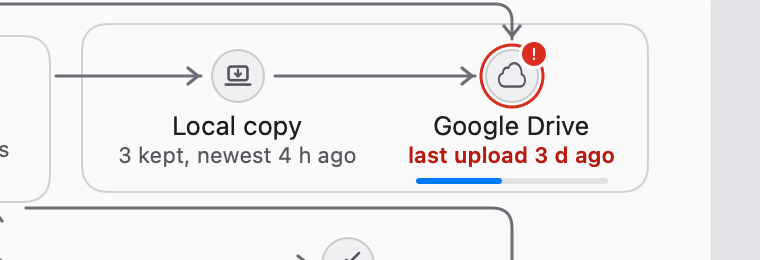
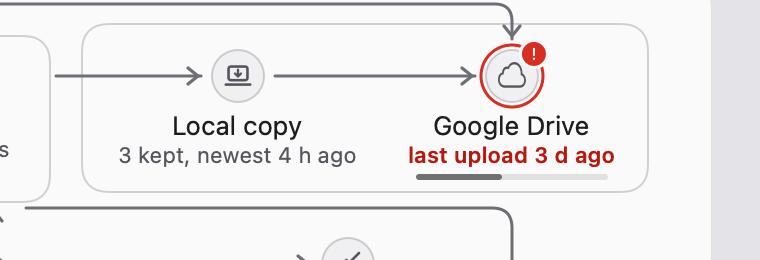
fix(brainbar): review 1 on the Drive upload state — bar placement, still bars, one stall name
Taste review round 1 on #1886 (2 blocking, 4 nits), all fixed:
- B1: the bar sits 3 pt under Drive's line box (y 93-96), 5.5 pt above
  the Kept-safe border, so it belongs to its words.
- B2: no dashed bar. A stall keeps its last confirmed amount in grey,
  a check fills the track in lighter grey, an unknown amount is the
  track alone; a Drive in error greys the amount. None of them moves.
- N1/N2: the Backups page names a stall like Drive's line, in one clock
  style that follows the 12/24-hour setting. "Stalled at" rather than
  "since": "Stalled since 12:58 PM" breaks the Kept-safe width rule.
- N3: "Newest verified copy is from <date>".
- N4: an upload can coexist with a Drive error (read() refuses only a
  recorded upload error), so the bar is grey whenever Drive is in error.

Changed region(s): [[0.5447, 0.6462, 0.8171, 0.7077]]

diff --git a/brain-bar/Sources/BrainBar/BrainBarBackupProgress.swift b/brain-bar/Sources/BrainBar/BrainBarBackupProgress.swift
@@ -23,12 +23,15 @@ struct BrainBarBackupProgress: Equatable, Sendable {
         guard local.uploadState == "in_progress" || (local.uploadState == "pending" && verifying) else { return nil }
         guard !local.uploaded || verifying else { return nil }
         let fresh = local.bytesConfirmedAt.map { (0...checkpointMaxAgeS).contains(now.timeIntervalSince($0)) } == true
+        let stalled = !verifying && local.bytesConfirmedAt.map { now.timeIntervalSince($0) > checkpointMaxAgeS } == true
+        // A stalled upload keeps the last confirmed amount (it reached N % at the time its line names); an undated or
+        // future-dated checkpoint carries no amount.
         return Self(phase: verifying ? .verification : .upload,
                     identity: "\(local.destination ?? ""):\(started.timeIntervalSince1970)",
-                    confirmed: verifying || !fresh ? nil : local.bytesConfirmed, total: verifying ? nil : local.bytesTotal,
+                    confirmed: verifying || !(fresh || stalled) ? nil : local.bytesConfirmed, total: verifying ? nil : local.bytesTotal,
                     lastGoodAt: backups.dbSnapshot.flatMap { $0.verified && $0.lastAt <= now ? $0.lastAt : nil },
                     checkpointAt: !verifying ? local.bytesConfirmedAt : nil, startedAt: started,
-                    isStalled: !verifying && local.bytesConfirmedAt.map { now.timeIntervalSince($0) > checkpointMaxAgeS } == true)
+                    isStalled: stalled)
     }
 
     var fraction: Double? {
@@ -40,45 +43,55 @@ struct BrainBarBackupProgress: Equatable, Sendable {
         if isStalled, let checkpointAt { return checkpointAt.formatted(date: .abbreviated, time: .shortened) }
         return percentage.map { "\($0) percent" } ?? BrainBarMenuPresenter.SurfaceSay.backupInProgress
     }
+    /// The Backups page's title; a stall says when bytes last moved, in the same words as Drive's line.
     var title: String {
-        if isStalled { return BrainBarMenuPresenter.SurfaceSay.notUploadingSince }
-        return phase == .upload ? BrainBarMenuPresenter.SurfaceSay.backupUploading : BrainBarMenuPresenter.SurfaceSay.backupVerifying
+        typealias Say = BrainBarMenuPresenter.SurfaceSay
+        if isStalled { return checkpointAt.map { Say.driveStalledAt(Self.clock($0)) } ?? Say.notUploadingSince }
+        return phase == .upload ? Say.backupUploading : Say.backupVerifying
     }
     /// Google Drive's status line in the Pipeline: what the upload is doing, in the station's own words. A fresh
-    /// checkpoint is under 20 minutes old by construction, so its time is left to the panel; once it is older the line
-    /// itself says since when nothing moved.
-    func stationLine(in timeZone: TimeZone = .autoupdatingCurrent) -> String {
+    /// checkpoint is under 20 minutes old by construction, so its time is left to the Backups page; once it is older the
+    /// line itself says when nothing moved after.
+    func stationLine(in timeZone: TimeZone = .autoupdatingCurrent, locale: Locale = .autoupdatingCurrent) -> String {
         typealias Say = BrainBarMenuPresenter.SurfaceSay
-        if isStalled, let checkpointAt { return Say.driveStalledSince(Self.clock(checkpointAt, in: timeZone)) }
+        if isStalled, let checkpointAt { return Say.driveStalledAt(Self.clock(checkpointAt, in: timeZone, locale: locale)) }
         if phase == .verification { return Say.backupVerifyingShort }
         return percentage.map(Say.driveUploadingPercent) ?? Say.backupUploadingShort
     }
 
-    /// "06:26": a clock time as the Pipeline's other lines write it.
-    static func clock(_ date: Date, in timeZone: TimeZone) -> String {
-        let f = DateFormatter()
-        f.locale = Locale(identifier: "en_US_POSIX")
-        f.timeZone = timeZone
-        f.dateFormat = "HH:mm"
-        return f.string(from: date)
+    /// The one clock style for both surfaces: the person's own 12- or 24-hour setting ("06:26", "6:26 AM").
+    static func clock(_ date: Date, in timeZone: TimeZone = .autoupdatingCurrent, locale: Locale = .autoupdatingCurrent) -> String {
+        date.formatted(Date.FormatStyle(date: .omitted, time: .shortened, locale: locale, timeZone: timeZone))
+    }
+
+    /// What the bar draws. Each state is still and distinct; none is dashed. A moving upload fills in the accent
+    /// colour; a stall (or a Drive in error) keeps its amount in grey; a check fills the whole track in a lighter grey;
+    /// an unknown amount is the track alone.
+    enum BarFill: Equatable, Sendable { case accent(Double), grey(Double), checking, unknown }
+    func barFill(muted: Bool = false) -> BarFill {
+        if phase == .verification { return .checking }
+        guard let fraction else { return .unknown }
+        return isStalled || muted ? .grey(fraction) : .accent(fraction)
     }
 
     func animates(after previous: Self?, reduceMotion: Bool) -> Bool {
-        guard !reduceMotion, let previous, phase == .upload, previous.phase == phase,
+        guard !reduceMotion, let previous, phase == .upload, previous.phase == phase, !isStalled, !previous.isStalled,
               identity == previous.identity, total == previous.total,
               let fraction, let old = previous.fraction else { return false }
         return fraction > old
     }
 }
 
-/// No timer or looping spinner: motion occurs only when a measured byte checkpoint advances.
-/// The open-ended bar stays still when a total is unavailable, including under Reduce Motion.
+/// No timer or looping spinner: motion occurs only when a measured byte checkpoint advances; every other state
+/// (stalled, checking, unknown amount) is a still bar, including under Reduce Motion.
 /// `compact` is the Pipeline's form: the bar alone, exactly its frame's height; its words are Google Drive's status
 /// line (`stationLine`) and the panel's rows, so nothing hangs below the station.
 struct BrainBarBackupProgressView: View {
     typealias Say = BrainBarMenuPresenter.SurfaceSay
     let progress: BrainBarBackupProgress
     var compact = false
+    /// Google Drive is in error: the amount is drawn in grey, never the accent of a healthy upload.
+    var muted = false
     @Environment(\.accessibilityReduceMotion) private var reduceMotion
     @State private var shown: BrainBarBackupProgress?
 
@@ -92,12 +105,11 @@ struct BrainBarBackupProgressView: View {
         return Say.backupUploadStarted + " " + at.formatted(date: .abbreviated, time: .shortened)
     }
 
-    /// The right-hand words beside the title: the stall's time, or the percentage and when bytes last advanced.
+    /// The right-hand words beside the title: the percentage and when bytes last advanced. A stall says its time in
+    /// its title ("Stalled at 7:39"), so nothing is pushed to the right.
     var checkpointText: String? {
-        guard !compact, let at = progress.checkpointAt else { return nil }
-        let time = at.formatted(date: .omitted, time: .shortened)
-        if progress.isStalled { return time }
-        return progress.percentage.map { "\($0)% · " + Say.backupUpdatedAt(time) }
+        guard !compact, !progress.isStalled, let at = progress.checkpointAt else { return nil }
+        return progress.percentage.map { "\($0)% · " + Say.backupUpdatedAt(BrainBarBackupProgress.clock(at)) }
     }
 
     var body: some View {
@@ -110,12 +122,15 @@ struct BrainBarBackupProgressView: View {
                 }
             }
             GeometryReader { geometry in
+                let fill = (shown ?? progress).barFill(muted: muted)
                 ZStack(alignment: .leading) {
-                    Capsule().fill(Color.secondary.opacity(0.2))
-                    if let fraction = (shown ?? progress).fraction {
-                        Capsule().fill(Color.accentColor).frame(width: geometry.size.width * fraction)
-                    } else {
-                        Capsule().strokeBorder(Color.secondary, style: StrokeStyle(lineWidth: 1, dash: [3, 3]))
+                    // The unknown amount's track is a little stronger, so it never reads as 0 %.
+                    Capsule().fill(Color.secondary.opacity(fill == .unknown ? 0.35 : 0.2))
+                    switch fill {
+                    case let .accent(fraction): Capsule().fill(Color.accentColor).frame(width: geometry.size.width * fraction)
+                    case let .grey(fraction): Capsule().fill(Color.secondary).frame(width: geometry.size.width * fraction)
+                    case .checking: Capsule().fill(Color.secondary.opacity(0.6))
+                    case .unknown: EmptyView()
                     }
                 }
             }

diff --git a/brain-bar/Tests/BrainBarTests/BrainBarDriveUploadStateTests.swift b/brain-bar/Tests/BrainBarTests/BrainBarDriveUploadStateTests.swift
@@ -114,7 +114,10 @@ import XCTest
 
     /// The progress row as the chart draws it: the frame it places the progress view in, and Drive's own line.
     static func progressElements(_ state: NDPipelineState, _ progress: BrainBarBackupProgress) -> [(String, CGRect)] {
-        let drawn = NDPipelineChart.drawingState(state, progress: progress)
+        progressElements(state, drawn: NDPipelineChart.drawingState(state, progress: progress))
+    }
+
+    static func progressElements(_ state: NDPipelineState, drawn: NDPipelineState) -> [(String, CGRect)] {
         var out = [("progress view", NDPipelineChart.progressFrame(state))]
         let drive = L.labelRects(.drive, drawn)
         if drive.count > 1 { out.append(("drive line \"\(drawn.status[.drive]?.text ?? "")\"", drive[drive.count - 1])) }
@@ -122,6 +125,7 @@ import XCTest
     }
 
     func testEveryUploadStateClearsTheChart() throws {
+        var checks: [(String, NDPipelineState, NDPipelineState)] = []
         for c in try Self.cases() {
             let state = Self.state(c)
             guard let progress = c.progress else {
@@ -129,14 +133,26 @@ import XCTest
                 continue
             }
             XCTAssertTrue(NDPipelineChart.showsProgress(state, progress: progress), c.name)
-            let drawn = NDPipelineChart.drawingState(state, progress: progress)
-            for (what, rect) in Self.progressElements(state, progress) {
+            checks.append((c.name, state, NDPipelineChart.drawingState(state, progress: progress)))
+        }
+        // The stall's line at its widest clock, in the person's own 12- or 24-hour setting ("12:58 PM", "오후 12:58").
+        let stalled = try XCTUnwrap(Self.cases().first { $0.name == "stalled" })
+        let utc = try XCTUnwrap(TimeZone(identifier: "UTC"))
+        let widest = try XCTUnwrap(Calendar(identifier: .gregorian).date(from: DateComponents(timeZone: utc, year: 2026, month: 11,
+                                                                                              day: 26, hour: 12, minute: 58)))
+        for id in ["en_US", "ko_KR", "en_GB"] {
+            var drawn = Self.state(stalled)
+            drawn.status[.drive] = .init(text: Say.driveStalledAt(BrainBarBackupProgress.clock(widest, in: utc, locale: Locale(identifier: id))))
+            checks.append(("stalled-\(id)", Self.state(stalled), drawn))
+        }
+        for (name, state, drawn) in checks {
+            for (what, rect) in Self.progressElements(state, drawn: drawn) {
                 // Drive's line sits directly under Drive's name, as every station's status does.
                 let own = what.hasPrefix("drive line") ? "drive name" : ""
                 for (obstacle, box) in Self.obstacles(drawn) where obstacle != own && rect.intersects(box) {
-                    XCTFail("\(c.name): \(what) \(rect) overlaps \(obstacle) \(box)")
+                    XCTFail("\(name): \(what) \(rect) overlaps \(obstacle) \(box)")
                 }
-                XCTAssertTrue(L.keptSafe.contains(rect), "\(c.name): \(what) \(rect) stays inside Kept safe \(L.keptSafe)")
+                XCTAssertTrue(L.keptSafe.contains(rect), "\(name): \(what) \(rect) stays inside Kept safe \(L.keptSafe)")
             }
         }
     }
@@ -168,7 +184,7 @@ import XCTest
                 XCTAssertEqual(drawn.status[.drive], fault, c.name)
             } else if c.name == "stalled" {
                 let at = try XCTUnwrap(progress.checkpointAt)
-                XCTAssertEqual(progress.stationLine(in: zone), Say.driveStalledSince(BrainBarBackupProgress.clock(at, in: zone)))
+                XCTAssertEqual(progress.stationLine(in: zone), Say.driveStalledAt(BrainBarBackupProgress.clock(at, in: zone)))
             } else {
                 XCTAssertEqual(progress.stationLine(in: zone), expected[c.name], c.name)
                 XCTAssertEqual(drawn.status[.drive]?.text, expected[c.name], c.name)
@@ -182,8 +198,32 @@ import XCTest
                        Say.backupUploadStarted + " " + started.formatted(date: .abbreviated, time: .shortened))
         XCTAssertNil(BrainBarBackupProgressView(progress: long, compact: true).startedText)
         XCTAssertEqual(BrainBarBackupProgressView(progress: long).checkpointText,
-                       "61% · " + Say.backupUpdatedAt(try XCTUnwrap(long.checkpointAt).formatted(date: .omitted, time: .shortened)))
+                       "61% · " + Say.backupUpdatedAt(BrainBarBackupProgress.clock(try XCTUnwrap(long.checkpointAt))))
         XCTAssertNil(BrainBarBackupProgressView(progress: long, compact: true).checkpointText)
+    }
+
+    /// Review 1886 B2: no dashed bar. Stalled keeps its last amount in grey, a check fills the track in a lighter grey, an
+    /// unknown amount is the track alone, a Drive in error greys the amount; none of them moves.
+    func testBarStatesAreStillAndDistinct() throws {
+        func fill(_ name: String, muted: Bool = false) throws -> BrainBarBackupProgress.BarFill {
+            try XCTUnwrap(Self.cases().first { $0.name == name }?.progress).barFill(muted: muted)
+        }
+        XCTAssertEqual(try fill("uploading-45"), .accent(0.45))
+        XCTAssertEqual(try fill("stalled"), .grey(0.45), "the stall keeps the amount it reached")
+        XCTAssertEqual(try fill("verifying"), .checking)
+        XCTAssertEqual(try fill("uploading-no-total"), .unknown)
+        XCTAssertEqual(try fill("uploading-45", muted: true), .grey(0.45), "Drive in error: grey, never the accent")
+        let still = [try fill("stalled"), try fill("verifying"), try fill("uploading-no-total")]
+        XCTAssertEqual(Set(still.map { "\($0)" }).count, 3, "three different bars")
+        for name in ["stalled", "verifying", "uploading-no-total"] {
+            let p = try XCTUnwrap(Self.cases().first { $0.name == name }?.progress)
+            var next = p
+            next.confirmed = (p.confirmed ?? 0) + 10
+            XCTAssertFalse(next.animates(after: p, reduceMotion: false), "\(name) is a still bar")
+        }
+        let source = try String(contentsOf: URL(fileURLWithPath: #filePath).deletingLastPathComponent().deletingLastPathComponent()
+            .deletingLastPathComponent().appendingPathComponent("Sources/BrainBar/BrainBarBackupProgress.swift"), encoding: .utf8)
+        XCTAssertFalse(source.contains("dash:"), "no dashed bar in any state")
     }
 
     /// The window has one width: its minimum is its default, so one render per state covers both.

diff --git a/brain-bar/Sources/BrainBar/NewDesign/NDPipelineChart.swift b/brain-bar/Sources/BrainBar/NewDesign/NDPipelineChart.swift
@@ -136,7 +136,7 @@ struct NDPipelineChart: View {
             // The upload's words are Drive's own status line (drawn above); its bar sits in the station's own space.
             if let backupProgress, Self.showsProgress(state, progress: backupProgress) {
                 let frame = Self.progressFrame(state)
-                BrainBarBackupProgressView(progress: backupProgress, compact: true)
+                BrainBarBackupProgressView(progress: backupProgress, compact: true, muted: state.status[.drive]?.severity != nil)
                     .frame(width: frame.width, height: frame.height)
                     .offset(x: frame.minX, y: frame.minY)
                     .allowsHitTesting(false)
@@ -165,16 +165,17 @@ struct NDPipelineChart: View {
         progress != nil
     }
 
-    /// The bar: 96 × 3, 5 pt under Google Drive's status line, inside the Kept-safe frame and 3.5 pt clear of its
-    /// border. One place in every state: calm (the line says what the upload is doing) and faulted (the line keeps the
-    /// fault's words). Nothing hangs below it, so it never reaches the Memory-to-Search lane.
+    /// The bar: 96 × 3, 3 pt under Google Drive's status line box (y 93…96, whole points) and 5.5 pt clear of the
+    /// Kept-safe border, so it belongs to its words rather than resting on the border. One place in every state: calm
+    /// (the line says what the upload is doing) and faulted (the line keeps the fault's words, the bar turns grey).
+    /// Nothing hangs below it, so it never reaches the Memory-to-Search lane.
     static func progressFrame(_ state: NDPipelineState) -> CGRect {
         let p = NDPipelineLayout.point(.drive)
         let lineBottom = NDPipelineLayout.statusTop(.drive) + NDPipelineLayout.statusHeight
-        return CGRect(x: p.x - 48, y: lineBottom + 5, width: 96, height: 3)
+        return CGRect(x: p.x - 48, y: lineBottom + 3, width: 96, height: 3)
     }
 
-    /// A calm Drive's status line becomes the upload's line ("Uploading 45%", "Checking copy", "Stalled since 06:26");
+    /// A calm Drive's status line becomes the upload's line ("Uploading 45%", "Checking copy", "Stalled at 06:26");
     /// a fault keeps its own words.
     static func drawingState(_ state: NDPipelineState, progress: BrainBarBackupProgress?) -> NDPipelineState {
         var drawn = state
@@ -973,7 +974,7 @@ struct NDStationPopover: View {
                 checks.first { $0.name == name }?.ageS.flatMap { $0.isFinite && $0 >= 0 ? Say.ago(NDFormat.ageText($0)) : nil }
             }
             // The panel is a short strip above the station with no room for another row: a running upload's start and its
-            // last checkpoint are on the Backups page; Drive's line says when it stopped moving ("Stalled since 06:26").
+            // last checkpoint are on the Backups page; Drive's line says when it stopped moving ("Stalled at 06:26").
             return [age("backup_offsite").map { Line(label: Say.databaseCopy, value: $0) },
                     age("transcripts").map { Line(label: Say.conversationsCopy, value: $0) }].compactMap { $0 }
         case .mac:

diff --git a/brain-bar/Tests/BrainBarTests/BrainBarBackupCaptureFixtureTests.swift b/brain-bar/Tests/BrainBarTests/BrainBarBackupCaptureFixtureTests.swift
@@ -65,8 +65,9 @@ import SwiftUI
     func testUploadStalled() throws {
         let i = try inputs("upload-stalled")
         let p = try XCTUnwrap(i.backupProgress)
-        XCTAssertNil(p.percentage)
         XCTAssertTrue(p.isStalled)
+        XCTAssertEqual(p.barFill(), .grey(0.25), "Review 1886 B2: frozen at its last amount, in grey")
+        XCTAssertFalse(p.stationLine().contains("%"))
         XCTAssertEqual(i.capture.now.timeIntervalSince(try XCTUnwrap(p.checkpointAt)), 21 * 60)
         XCTAssertFalse(p.animates(after: p, reduceMotion: false))
     }
@@ -105,7 +106,8 @@ import SwiftUI
         XCTAssertTrue(lane.strong)
         XCTAssertNotNil(lane.stalledFrom)
         XCTAssertFalse(lane.events.isEmpty)
-        XCTAssertNil(i.backupProgress?.percentage, "Gap 22: a stalled checkpoint older than the display limit carries no number")
+        XCTAssertEqual(i.backupProgress?.stationLine().contains("%"), false,
+                       "Gap 22: a stalled checkpoint older than the display limit says no number (its grey bar keeps the amount)")
         XCTAssertEqual(i.capture.driveAuthModel, .valid)
         XCTAssertEqual(i.capture.verdict?.checks.first { $0.name == "drive_auth" }?.state, .green)
         XCTAssertEqual(i.backupProgress?.isStalled, true)
@@ -125,7 +127,8 @@ import SwiftUI
             let wordsBottom = try XCTUnwrap(L.labelRects(.drive, state).map(\.maxY).max())
             XCTAssertEqual(frame.midX, drive.x)
             XCTAssertEqual(frame.size, CGSize(width: 96, height: 3))
-            XCTAssertEqual(frame.minY - wordsBottom, 5, accuracy: 0.01, name)
+            // Review 1886 B1: 3 pt under the words box (was 5), so the bar belongs to its words, not the border below.
+            XCTAssertEqual(frame.minY - wordsBottom, 3, accuracy: 0.01, name)
             XCTAssertTrue(L.keptSafe.contains(frame), name)
             for station in NDStation.allCases {
                 for rect in L.labelRects(station, state) { XCTAssertFalse(frame.intersects(rect), "\(name): \(station) text") }
@@ -142,7 +145,8 @@ import SwiftUI
                 attributes: [.font: NSFont.monospacedDigitSystemFont(ofSize: 11, weight: .semibold)]).size()
             let nativeBottom = max(drive.y + 29 - 13 * 0.36 + nameSize.height / 2,
                                    L.statusTop(.drive) + 10 - 11 * 0.36 + statusSize.height / 2)
-            XCTAssertGreaterThanOrEqual(frame.minY - nativeBottom, 4, name)
+            // The native line box ends below the descenders (it includes leading); the glyphs clear the bar by ~3.5 pt.
+            XCTAssertGreaterThanOrEqual(frame.minY - nativeBottom, 2.5, name)
             XCTAssertFalse(frame.intersects(L.hub), "\(name): Memory text")
             XCTAssertFalse(frame.intersects(L.agentsFrame), "\(name): agent labels")
             XCTAssertFalse(frame.intersects(L.pipelineHeading), "\(name): Pipeline heading")

diff --git a/brain-bar/Tests/BrainBarTests/BrainBarBackupTruthTests.swift b/brain-bar/Tests/BrainBarTests/BrainBarBackupTruthTests.swift
@@ -116,9 +116,11 @@ import XCTest
 
     func testStalledProgressNamesTheStallAndMovingProgressDoesNot() throws {
         var progress = try XCTUnwrap(BrainBarBackupProgress.read(BrainBarDesignFixture.backupFacts(.uploadProgress), now: BrainBarDesignFixture.now))
-        XCTAssertFalse(progress.title.contains(BrainBarMenuPresenter.SurfaceSay.notUploadingSince))
+        let at = try XCTUnwrap(progress.checkpointAt)
+        let stalledTitle = BrainBarMenuPresenter.SurfaceSay.driveStalledAt(BrainBarBackupProgress.clock(at))
+        XCTAssertNotEqual(progress.title, stalledTitle)
         progress.isStalled = true
-        XCTAssertTrue(progress.title.contains(BrainBarMenuPresenter.SurfaceSay.notUploadingSince))
+        XCTAssertEqual(progress.title, stalledTitle, "the Backups page and Drive's line name a stall in the same words")
         XCTAssertEqual(progress.accessibilityValue, try XCTUnwrap(progress.checkpointAt).formatted(date: .abbreviated, time: .shortened))
     }
 
@@ -129,14 +131,15 @@ import XCTest
         let inputs = BrainBarDesignFixture.inputs(.uploadStalled)
         let progress = try XCTUnwrap(inputs.backupProgress)
         XCTAssertTrue(progress.isStalled)
-        XCTAssertTrue(progress.title.contains(Say.notUploadingSince))
+        XCTAssertEqual(progress.title, progress.stationLine(), "one name for the stall on both surfaces")
+        XCTAssertNil(BrainBarBackupProgressView(progress: progress).checkpointText, "no time pushed to the right")
         XCTAssertNil(BrainBarBackupProgressView(progress: progress, compact: true).lastGoodText)
         let caption = try XCTUnwrap(BrainBarBackupProgressView(progress: progress).lastGoodText)
         XCTAssertTrue(caption.hasPrefix(Say.backupLastGood + " "), caption)
         XCTAssertTrue(caption.contains(try XCTUnwrap(progress.lastGoodAt).formatted(date: .abbreviated, time: .shortened)))
         let zone = try XCTUnwrap(TimeZone(identifier: "Asia/Jerusalem"))
         let line = progress.stationLine(in: zone)
-        XCTAssertEqual(line, Say.driveStalledSince(BrainBarBackupProgress.clock(try XCTUnwrap(progress.checkpointAt), in: zone)))
+        XCTAssertEqual(line, Say.driveStalledAt(BrainBarBackupProgress.clock(try XCTUnwrap(progress.checkpointAt), in: zone)))
         let state = NDR1.make(inputs, NDModel.make(inputs)).pipeline
         XCTAssertEqual(NDPipelineChart.drawingState(state, progress: progress).status[.drive]?.text, progress.stationLine())
         // Drive's widest line keeps the Kept-safe rule: 12 pt to the frame on its right.

diff --git a/brain-bar/Sources/BrainBar/BrainBarMenuSentences.swift b/brain-bar/Sources/BrainBar/BrainBarMenuSentences.swift
@@ -624,7 +624,7 @@ extension BrainBarMenuPresenter {
         static let backupVerifying = ObservabilityPresentation.backupVerificationText
         /// The Backups page: the newest verified copy, dated by when it was made (`db_snapshot.last_at` is the snapshot's
         /// creation time, not the time it was verified, so it never reads as "verified at").
-        static let backupLastGood = "Last verified copy made"
+        static let backupLastGood = "Newest verified copy is from"
         static let backupUploadStarted = "Upload started"
         /// The time of the last confirmed byte checkpoint, beside the percentage: a clock time, never a duration.
         static func backupUpdatedAt(_ time: String) -> String { "updated \(time)" }
@@ -632,7 +632,9 @@ extension BrainBarMenuPresenter {
         static let backupUploadingShort = "Uploading"
         static let backupVerifyingShort = "Checking copy"
         static func driveUploadingPercent(_ percent: Int) -> String { "Uploading \(percent)%" }
-        static func driveStalledSince(_ time: String) -> String { "Stalled since \(time)" }
+        /// A stall: the time bytes last moved. "at", not "since": "Stalled since 12:58 PM" is too wide for Drive's
+        /// column in a 12-hour locale (Kept-safe rule), "Stalled at 12:58 PM" fits.
+        static func driveStalledAt(_ time: String) -> String { "Stalled at \(time)" }
         static let backupInProgress = "In progress"
         static func driveCopyUploading(_ age: String) -> String {
             "Your database backup in Google Drive is \(age); an upload is running."

diff --git a/brain-bar/Tests/BrainBarTests/BrainBarBackupProgressTests.swift b/brain-bar/Tests/BrainBarTests/BrainBarBackupProgressTests.swift
@@ -52,8 +52,11 @@ import XCTest
         clock.value = now.addingTimeInterval(30 * 60)
         XCTAssertEqual(model.observabilityNow, now, "the read has not completed again")
         let expired = try XCTUnwrap(model.backupProgress)
-        XCTAssertNil(expired.percentage)
         XCTAssertTrue(expired.isStalled)
+        // Review 1886 B2: the stall keeps its last amount for the grey bar; no number is said in words.
+        XCTAssertEqual(expired.barFill(), .grey(0.25))
+        XCTAssertFalse(expired.stationLine().contains("%"))
+        XCTAssertFalse(expired.title.contains("%"))
     }
 
     func testMissingTotalIsIndeterminateWithNoNumber() throws {
@@ -153,7 +156,9 @@ import XCTest
         XCTAssertEqual(fresh.accessibilityValue, "25 percent")
         for age in [TimeInterval?.none, .some(1201)] {
             let p = try XCTUnwrap(BrainBarBackupProgress.read(backups(checkpointAge: age), now: now))
-            XCTAssertNil(p.percentage)
+            // An undated checkpoint carries no amount; a stalled one keeps it for its grey bar, never in words.
+            XCTAssertEqual(p.percentage, age == .some(1201) ? 25 : nil)
+            XCTAssertFalse(p.stationLine().contains("%"))
             XCTAssertEqual(p.isStalled, age == .some(1201))
             if age == .some(1201) {
                 XCTAssertEqual(p.accessibilityValue, now.addingTimeInterval(-1201).formatted(date: .abbreviated, time: .shortened))

diff --git a/brain-bar/Tests/BrainBarTests/BrainBarFirstLookBubbleTests.swift b/brain-bar/Tests/BrainBarTests/BrainBarFirstLookBubbleTests.swift
@@ -118,8 +118,8 @@ import XCTest
         let chart = NDPipelineChart(state: store.r1.pipeline, memories: store.model.memories,
                                     items: store.r1.stationItems, backupProgress: inputs.backupProgress)
         let row = NDPipelineChart.progressFrame(store.r1.pipeline)
-        XCTAssertEqual(row.minY, 95, "5 pt under Drive's status line")
-        XCTAssertEqual(row.maxY, 98, "3.5 pt above the Kept-safe border")
+        XCTAssertEqual(row.minY, 93, "3 pt under Drive's status line box")
+        XCTAssertEqual(row.maxY, 96, "5.5 pt above the Kept-safe border")
         XCTAssertTrue(chart.displayedPanelWords[.drive]?.contains(row) == true)
         let panel = chart.panel(.drive, content: AnyView(NDStationPopover(store: store, station: .drive)))
         XCTAssertFalse(panel.outer.intersects(row), "the notch and body must clear the words actually drawn")
